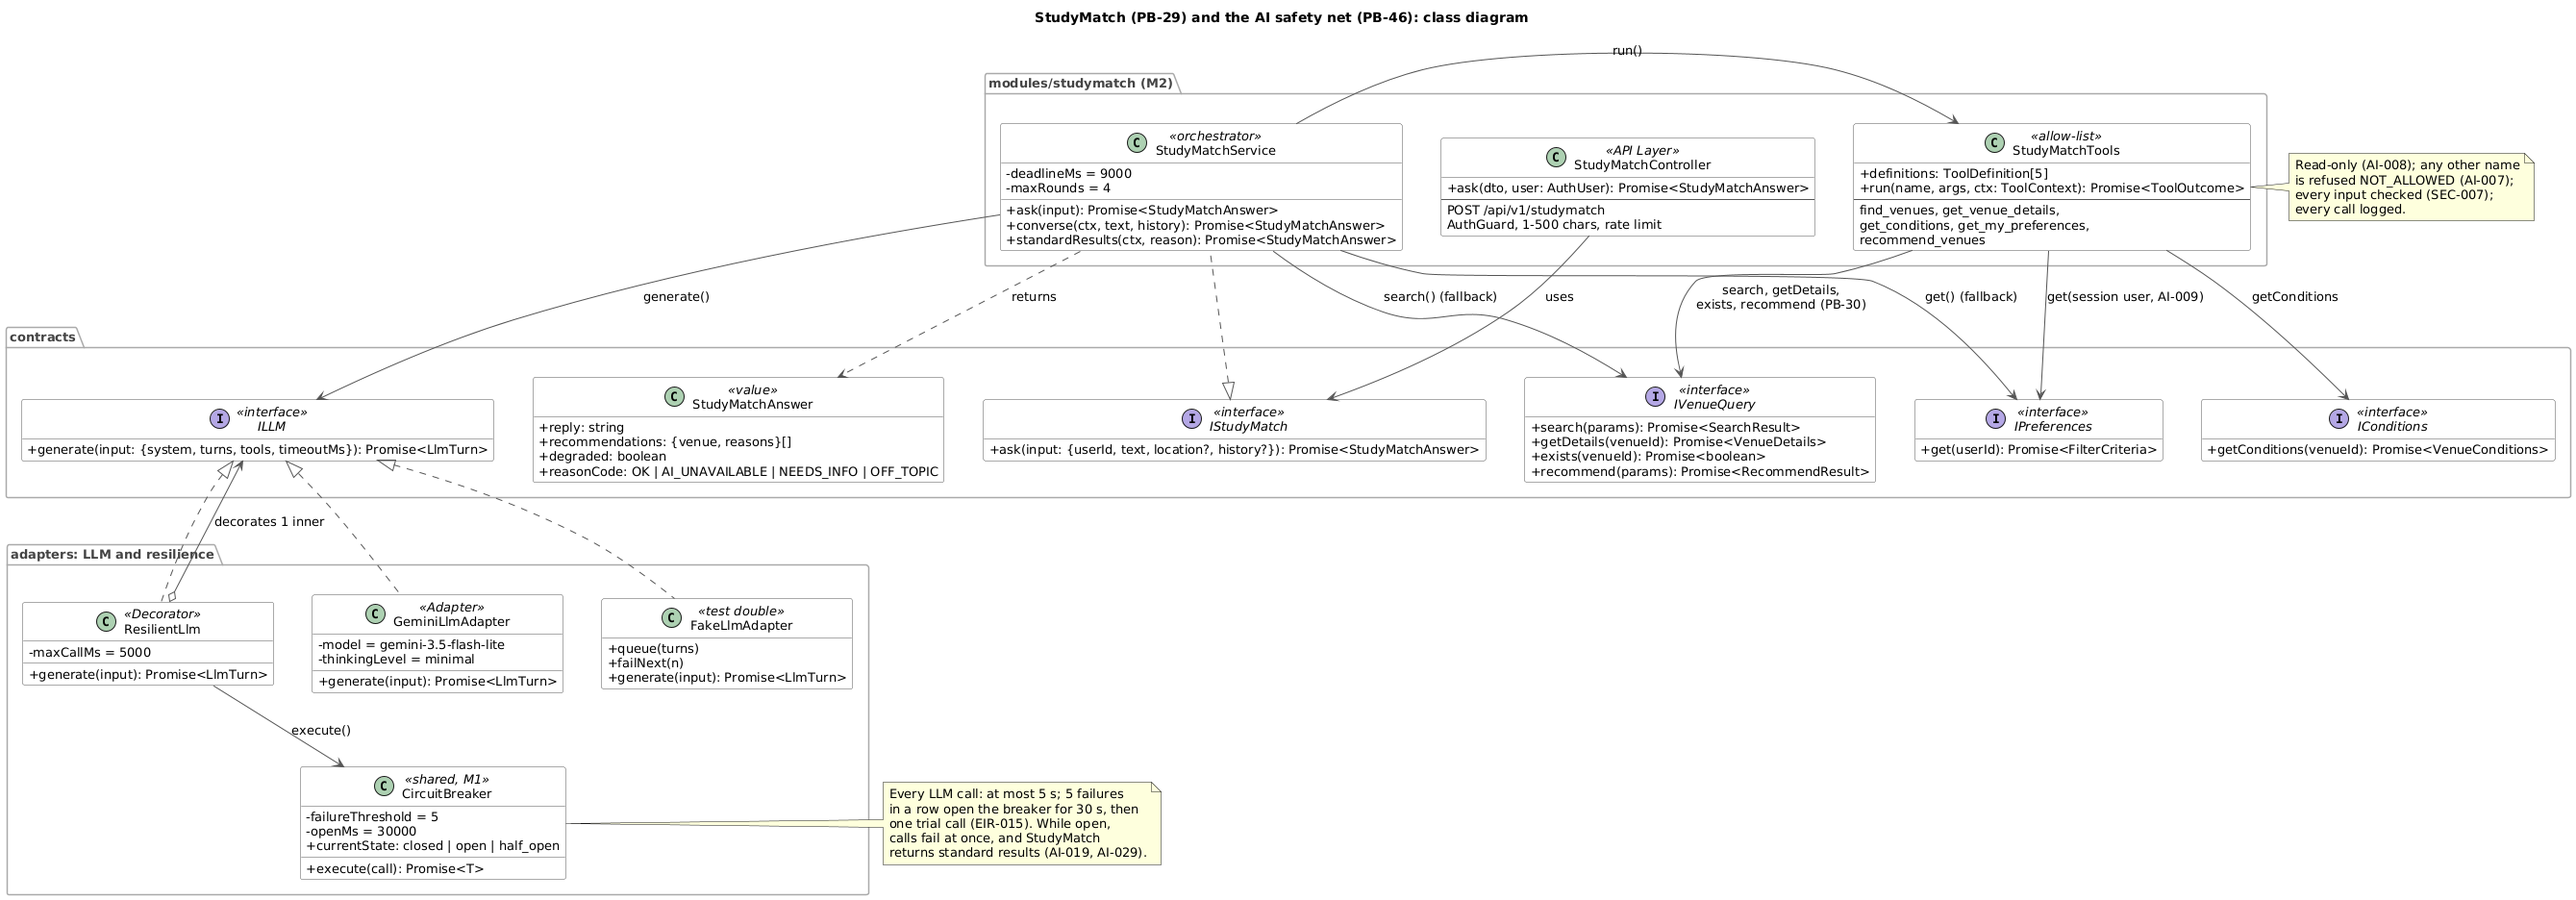
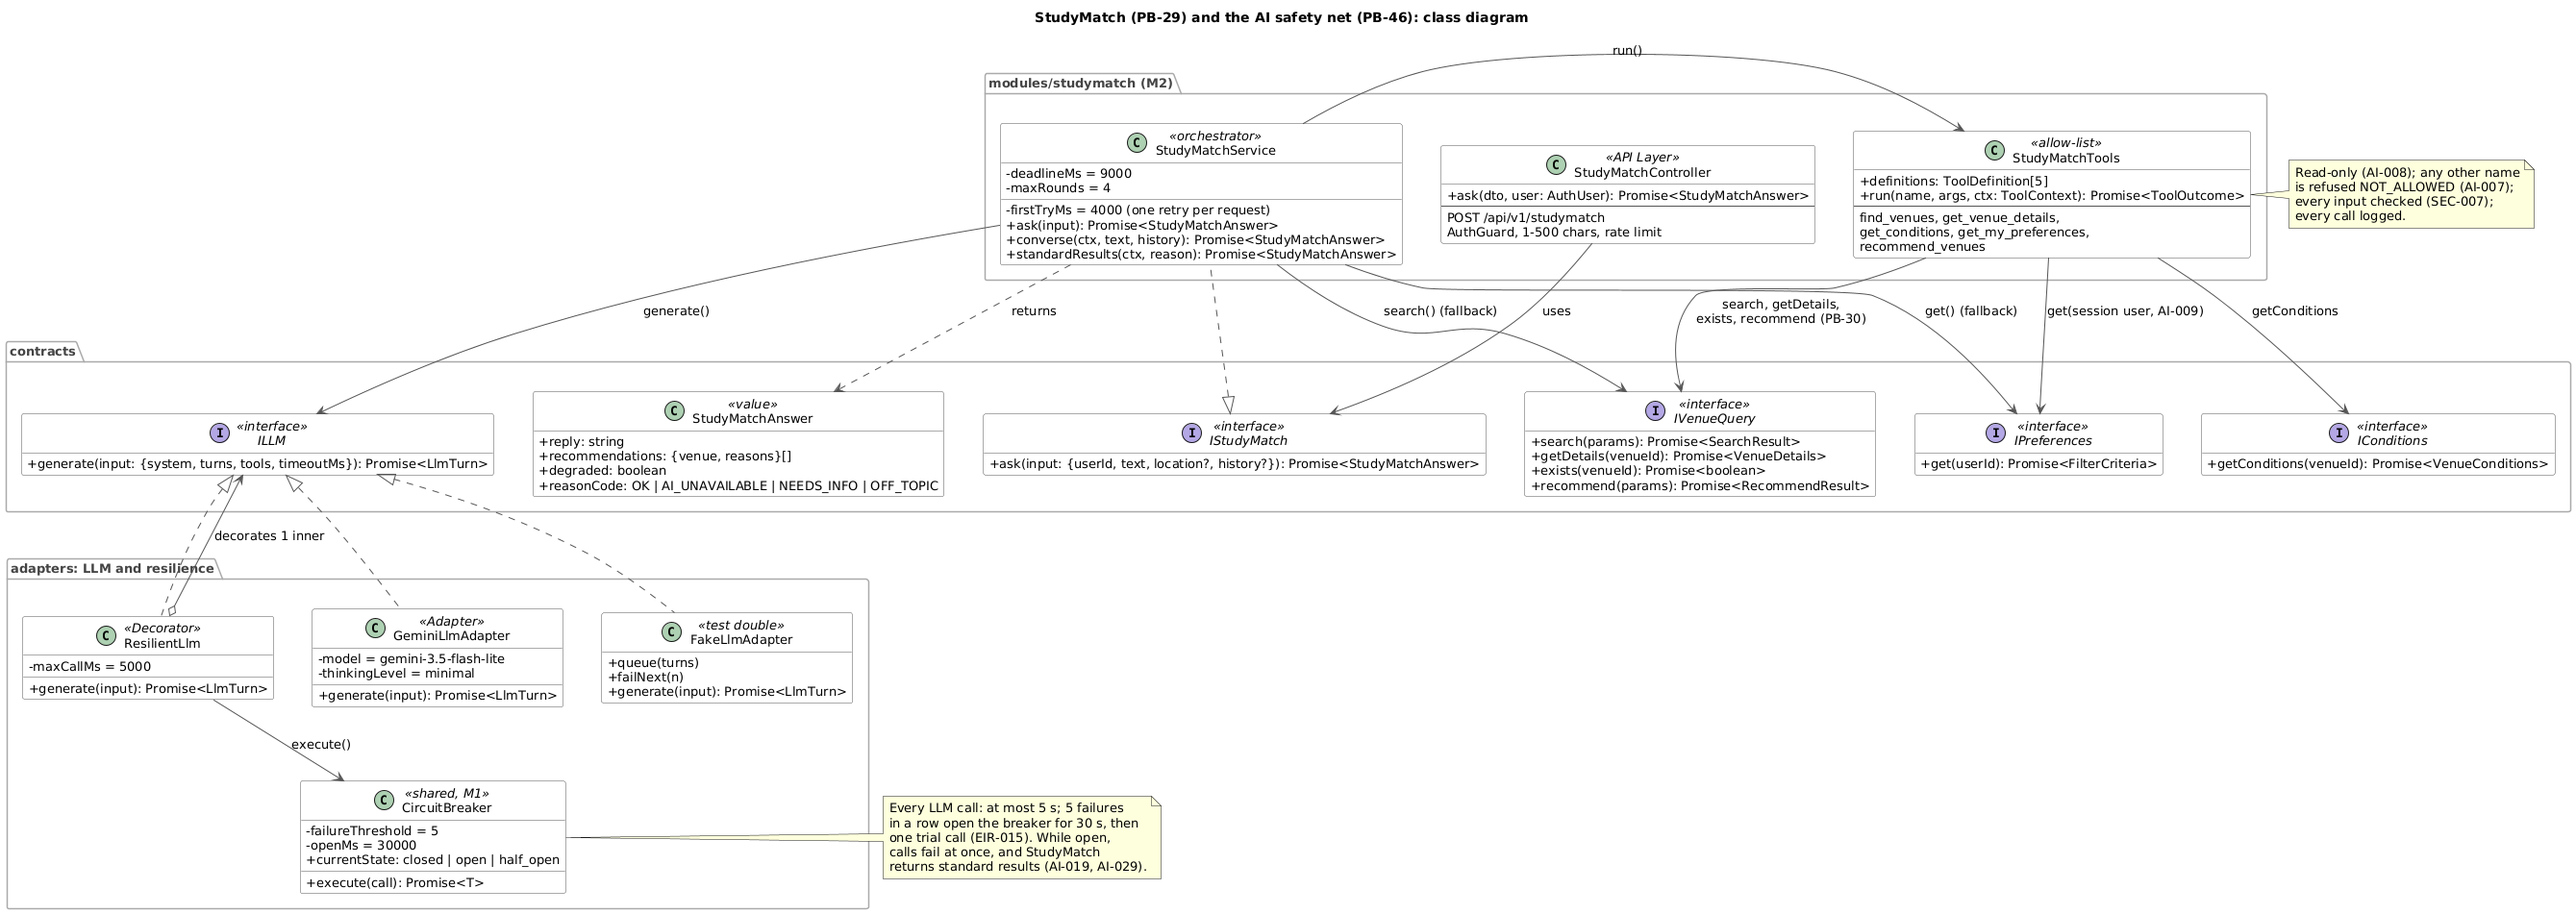
PB-46 StudyMatch retries one slow AI call per request, within the 9 s deadline
- First try of a call 4 s (answers normally take 1-2 s), then one retry of at most 5 s
- Not retried: open circuit, quota (429), refused request; the breaker is unchanged
- TC-M2-73..75; TC-M2-46 and the diagrams updated. Found in the PB-43 usability sessions

diff --git a/backend/test/unit/studymatch.service.spec.ts b/backend/test/unit/studymatch.service.spec.ts
@@ -1,3 +1,4 @@
+import { LlmBadRequestError } from '../../src/adapters/llm/gemini-llm.adapter';
 import { AdapterUnavailableError } from '../../src/common/errors/app-error';
 import type { ILLM, IPreferences, IVenueQuery, LlmTurn, VenueSummary } from '../../src/contracts';
 import { FakeClock } from '../../src/modules/clock/fake-clock';
@@ -12,7 +13,7 @@ import {
 } from '../../src/modules/studymatch/studymatch.service';
 
 /**
- * TC-M2-41..TC-M2-46, TC-M2-63..TC-M2-65: the StudyMatch orchestrator (PB-29, SDS 7.2, UC-05).
+ * TC-M2-41..TC-M2-46, TC-M2-63..TC-M2-65, TC-M2-73..TC-M2-75: the StudyMatch orchestrator (PB-29, SDS 7.2, UC-05).
  * The LLM is scripted; tools are faked; time comes from FakeClock.
  */
 const VENUE = { id: 'v1', name: 'Quiet Corner Zamalek' } as VenueSummary;
@@ -155,7 +156,7 @@ describe('StudyMatch orchestrator (PB-29, UC-05)', () => {
     });
   });
 
-  it('TC-M2-46 limits: at most 4 tool rounds; 9 s deadline; each call gets what is left (at most 5 s)', async () => {
+  it('TC-M2-46 limits: at most 4 tool rounds; 9 s deadline; each call gets what is left (at most 4 s)', async () => {
     const loop = setup(Array.from({ length: 10 }, () => call('find_venues')));
     await expect(loop.service.converse(ME, 'loop forever')).rejects.toBeInstanceOf(
       StudyMatchUnavailable,
@@ -170,7 +171,7 @@ describe('StudyMatch orchestrator (PB-29, UC-05)', () => {
     };
     const timed = setup([fourSeconds, fourSeconds, say('just in time')], clock);
     const result = await timed.service.ask({ ...ME, text: 'quiet' });
-    expect(timed.llmCalls.map((c) => c.timeoutMs)).toEqual([5000, 5000, 1000]);
+    expect(timed.llmCalls.map((c) => c.timeoutMs)).toEqual([4000, 4000, 1000]);
     expect(result.reply).toBe('just in time');
 
     // With 8.6 s gone there is no time for another call: unavailable (step 6 falls back).
@@ -189,6 +190,90 @@ describe('StudyMatch orchestrator (PB-29, UC-05)', () => {
       reason: 'deadline',
     });
     expect(late.llmCalls).toHaveLength(1);
+  });
+
+  const failAfter =
+    (clock: FakeClock, seconds: number, reason = 'timeout'): Step =>
+    () => {
+      clock.advance({ seconds });
+      throw new AdapterUnavailableError('llm', reason);
+    };
+
+  it('TC-M2-73 one slow call is tried once more: the student still gets the answer, within the 9 s', async () => {
+    const clock = new FakeClock('2026-11-25T18:00:00Z');
+    const s = setup(
+      [
+        failAfter(clock, 4),
+        call('recommend_venues', { criteria: [] }),
+        say('Quiet Corner Zamalek is quiet right now (current).'),
+      ],
+      clock,
+    );
+    const answer = await s.service.ask({ ...ME, text: 'quiet near me' });
+    expect(answer).toMatchObject({ degraded: false, recommendations: [{ venue: VENUE }] });
+    // First try 4 s; the retry and later calls at most 5 s, never more than what is left.
+    expect(s.llmCalls.map((c) => c.timeoutMs)).toEqual([4000, 5000, 5000]);
+    expect(s.llmCalls[1].turns).toEqual(s.llmCalls[0].turns);
+
+    // A slow second call (after the tools) is retried as well.
+    const later = new FakeClock('2026-11-25T18:00:00Z');
+    const t = setup(
+      [call('recommend_venues', { criteria: [] }), failAfter(later, 4), say('Found one.')],
+      later,
+    );
+    expect(await t.service.ask({ ...ME, text: 'quiet' })).toMatchObject({ reply: 'Found one.' });
+    expect(t.toolCalls).toHaveLength(1);
+  });
+
+  it('TC-M2-74 only one retry per request, and none with under 1 s left: then standard results', async () => {
+    const clock = new FakeClock('2026-11-25T18:00:00Z');
+    const twice = setup([failAfter(clock, 4), failAfter(clock, 4), say('never asked')], clock);
+    expect(await twice.service.ask({ ...ME, text: 'quiet' })).toMatchObject({
+      degraded: true,
+      reasonCode: 'AI_UNAVAILABLE',
+    });
+    expect(twice.llmCalls).toHaveLength(2);
+
+    // The retry is used up by the first call: a slow later call is not retried.
+    const c2 = new FakeClock('2026-11-25T18:00:00Z');
+    const used = setup(
+      [failAfter(c2, 1), call('find_venues'), failAfter(c2, 1), say('never asked')],
+      c2,
+    );
+    expect((await used.service.ask({ ...ME, text: 'quiet' })).degraded).toBe(true);
+    expect(used.llmCalls).toHaveLength(3);
+
+    // Boundary: 1.0 s left is retried, 0.9 s is not.
+    for (const [gone, calls] of [
+      [8.0, 2],
+      [8.1, 1],
+    ]) {
+      const c = new FakeClock('2026-11-25T18:00:00Z');
+      const s = setup([failAfter(c, gone), say('in time')], c);
+      expect((await s.service.ask({ ...ME, text: 'quiet' })).degraded).toBe(calls === 1);
+      expect(s.llmCalls).toHaveLength(calls);
+    }
+  });
+
+  it('TC-M2-75 retried: timeout, network error, HTTP 503; not retried: open circuit, quota (429), refused request', async () => {
+    const attempts = async (error: Error) => {
+      const s = setup([
+        () => {
+          throw error;
+        },
+        say('second try'),
+      ]);
+      const answer = await s.service.ask({ ...ME, text: 'quiet' });
+      expect(answer.degraded).toBe(s.llmCalls.length === 1);
+      return s.llmCalls.length;
+    };
+    for (const reason of ['timeout after 4000 ms', 'network error', 'HTTP 503']) {
+      expect(await attempts(new AdapterUnavailableError('llm', reason))).toBe(2);
+    }
+    for (const reason of ['circuit open', 'HTTP 429']) {
+      expect(await attempts(new AdapterUnavailableError('llm', reason))).toBe(1);
+    }
+    expect(await attempts(new LlmBadRequestError('HTTP 400'))).toBe(1);
   });
 
   it('TC-M2-63 follow-up: the earlier messages reach the AI, oldest first, before the new one', async () => {

diff --git a/backend/src/modules/studymatch/studymatch.service.ts b/backend/src/modules/studymatch/studymatch.service.ts
@@ -22,6 +22,13 @@ import { StudyMatchTools, type RecommendedVenue, type ToolContext } from './stud
 /** SDS 7.2: 5 s per LLM call (ResilientLlm) inside a 9 s deadline for the whole request (AI-028). */
 export const STUDYMATCH_DEADLINE_MS = 9_000;
 export const LLM_CALL_LIMIT_MS = 5_000;
+/**
+ * Found in the PB-43 sessions: one hanging Gemini call meant "unavailable". The first try of a
+ * call now gets 4 s (answers normally take 1-2 s), which leaves time for one retry per request.
+ */
+export const LLM_FIRST_TRY_MS = 4_000;
+/** Below this a retry would hardly ever be answered in time. */
+const MIN_RETRY_MS = 1_000;
 /** Tool rounds before we stop asking; a normal request needs one or two. */
 export const MAX_ROUNDS = 4;
 export const MAX_TOOL_CALLS_PER_ROUND = 5;
@@ -197,18 +204,28 @@ export class StudyMatchService implements IStudyMatch {
       { role: 'user', text },
     ];
     let recommended: RecommendedVenue[] = [];
+    let retried = false;
 
     for (let round = 0; round < MAX_ROUNDS; round++) {
-      const left = deadline - this.clock.now().getTime();
-      if (left < MIN_CALL_MS) throw new StudyMatchUnavailable('deadline');
-      let answer: LlmTurn;
-      try {
-        answer = await this.llm.generate({
+      const timeLeft = () => deadline - this.clock.now().getTime();
+      if (timeLeft() < MIN_CALL_MS) throw new StudyMatchUnavailable('deadline');
+      const generate = (limitMs: number) =>
+        this.llm.generate({
           system,
           turns,
           tools: this.tools.definitions,
-          timeoutMs: Math.min(LLM_CALL_LIMIT_MS, left),
+          timeoutMs: Math.min(limitMs, timeLeft()),
         });
+      let answer: LlmTurn;
+      try {
+        answer = await generate(retried ? LLM_CALL_LIMIT_MS : LLM_FIRST_TRY_MS).catch(
+          (err: unknown) => {
+            if (retried || !isWorthRetrying(err) || timeLeft() < MIN_RETRY_MS) throw err;
+            retried = true;
+            this.logger.warn({ userId: ctx.userId, reason: err.reason }, 'StudyMatch retries once');
+            return generate(LLM_CALL_LIMIT_MS);
+          },
+        );
       } catch (err) {
         const reason = err instanceof AdapterUnavailableError ? err.reason : String(err);
         throw new StudyMatchUnavailable(reason);
@@ -256,6 +273,14 @@ export class StudyMatchService implements IStudyMatch {
     }
     throw new StudyMatchUnavailable('too many tool rounds');
   }
+}
+
+/**
+ * A slow call, a network error or a Gemini outage may pass. An open circuit, the quota (429) and
+ * requests Gemini refuses do not get better by asking again at once.
+ */
+function isWorthRetrying(err: unknown): err is AdapterUnavailableError {
+  return err instanceof AdapterUnavailableError && !/^(circuit open|HTTP 4\d\d)/.test(err.reason);
 }
 
 /** Standard results carry only a fact from the data, never a claimed match (AI-014). */

diff --git a/docs/testing/traceability-matrix.md b/docs/testing/traceability-matrix.md
@@ -4,12 +4,12 @@
 
 ## Summary
 
-**318** test cases: **314** pass, **1** fail, **3** not run yet. They cover **159** requirement IDs.
+**321** test cases: **317** pass, **1** fail, **3** not run yet. They cover **159** requirement IDs.
 
 | Member | Test cases | Pass | Fail | Not run | Automated |
 | --- | ---: | ---: | ---: | ---: | ---: |
 | M1 | 93 | 91 | 1 | 1 | 93 |
-| M2 | 69 | 69 | 0 | 0 | 69 |
+| M2 | 72 | 72 | 0 | 0 | 72 |
 | M3 | 40 | 40 | 0 | 0 | 40 |
 | M4 | 33 | 33 | 0 | 0 | 33 |
 | M5 | 15 | 15 | 0 | 0 | 15 |
@@ -22,7 +22,7 @@
 | Integration | 100 |
 | Performance | 3 |
 | System | 2 |
-| Unit | 182 |
+| Unit | 185 |
 | Unit (app) | 9 |
 | Widget | 12 |
 
@@ -50,8 +50,8 @@
 | AI-023 | TC-M1-77, TC-M1-78, TC-M1-82 | Unit, Integration | ✅ all pass |
 | AI-024 | TC-M2-44 | Unit | ✅ all pass |
 | AI-026 | TC-M1-79, TC-M1-84, TC-M1-89 | Unit, Integration, Unit (app) | ✅ all pass |
-| AI-028 | TC-M2-33, TC-M2-46 | Unit | ✅ all pass |
-| AI-029 | TC-M2-28, TC-M2-30, TC-M2-47, TC-M2-49, TC-M2-50, TC-M2-53, TC-M2-59 | Unit, Integration, Widget | ✅ all pass |
+| AI-028 | TC-M2-33, TC-M2-46, TC-M2-73, TC-M2-74 | Unit | ✅ all pass |
+| AI-029 | TC-M2-28, TC-M2-30, TC-M2-47, TC-M2-49, TC-M2-50, TC-M2-53, TC-M2-59, TC-M2-73, TC-M2-74, TC-M2-75 | Unit, Integration, Widget | ✅ all pass |
 | CON-001 | TC-M4-40, TC-M4-41, TC-M4-42 | Integration, Unit (app), Widget | ✅ all pass |
 | CON-002 | TC-M4-40, TC-M4-41, TC-M4-42 | Integration, Unit (app), Widget | ✅ all pass |
 | CON-003 | TC-M4-40, TC-M4-41, TC-M4-42 | Integration, Unit (app), Widget | ✅ all pass |
@@ -76,7 +76,7 @@
 | EIR-010 | TC-M1-28, TC-M2-35, TC-M2-37, TC-M2-38, TC-M2-39, TC-M2-40, TC-M2-54 | Integration, Unit | ✅ all pass |
 | EIR-011 | TC-M1-01, TC-M1-03, TC-M1-12, TC-M1-34, TC-M1-37, TC-M1-38, TC-M1-39, TC-M1-40, TC-M1-41, TC-M3-35, TC-M2-40, TC-M6-08, TC-M6-09, TC-M6-42 | Unit, API layer, Integration | ✅ all pass |
 | EIR-013 | TC-M6-16, TC-M6-29, TC-M6-30, TC-M6-36, TC-M6-37 | Unit, Integration | ✅ all pass |
-| EIR-015 | TC-M2-26, TC-M2-28, TC-M2-29, TC-M2-30, TC-M2-31, TC-M2-32, TC-M2-33, TC-M2-34, TC-M2-48, TC-M1-76, TC-M1-84 | Unit, Integration | ✅ all pass |
+| EIR-015 | TC-M2-26, TC-M2-28, TC-M2-29, TC-M2-30, TC-M2-31, TC-M2-32, TC-M2-33, TC-M2-34, TC-M2-48, TC-M2-75, TC-M1-76, TC-M1-84 | Unit, Integration | ✅ all pass |
 | FR-001 | TC-M2-01, TC-M2-03, TC-M2-04, TC-M5-02, TC-M5-03, TC-M5-04, TC-M5-05, TC-M5-06 | Unit | ✅ all pass |
 | FR-002 | TC-M2-06, TC-M2-07, TC-M5-07 | Unit, Integration | ✅ all pass |
 | FR-003 | TC-M2-12, TC-M5-08 | Unit | ✅ all pass |
@@ -116,7 +116,7 @@
 | FR-044 | TC-M4-20, TC-M4-24, TC-M4-25, TC-M4-26, TC-M1-59, TC-M1-66, TC-M1-72 | Integration, Unit | ✅ all pass |
 | PERF-001 | TC-M1-90 | Performance | ✅ all pass |
 | PERF-002 | TC-M1-91 | Performance | ✅ all pass |
-| PERF-003 | TC-M2-46, TC-M2-53 | Unit, Integration | ✅ all pass |
+| PERF-003 | TC-M2-46, TC-M2-53, TC-M2-73 | Unit, Integration | ✅ all pass |
 | PERF-005 | TC-M4-34, TC-M4-40, TC-M4-43, TC-M4-12 | Unit, Integration | ✅ all pass |
 | PERF-006 | TC-M1-92 | Performance | ❌ 1 failing |
 | PERF-007 | TC-M2-55 | Unit | ✅ all pass |
@@ -361,6 +361,9 @@
 | TC-M2-70 | SEN-002, USE-007 | Error guessing | Unit | pass | `app/test/core/location_service_test.dart` |
 | TC-M2-71 | PRIV-004, SEN-002 | State transition | Unit | pass | `app/test/features/permissions/location_view_model_test.dart` |
 | TC-M2-72 | AI-003 | Equivalence partitioning | Unit | pass | `app/test/features/studymatch/studymatch_test.dart` |
+| TC-M2-73 | AI-028, AI-029, PERF-003 | Error guessing | Unit | pass | `backend/test/unit/studymatch.service.spec.ts` |
+| TC-M2-74 | AI-028, AI-029 | Boundary value analysis | Unit | pass | `backend/test/unit/studymatch.service.spec.ts` |
+| TC-M2-75 | AI-029, EIR-015 | Equivalence partitioning | Unit | pass | `backend/test/unit/studymatch.service.spec.ts` |
 | TC-M4-01 | RT-001 | Boundary value analysis (59 / 61 min) | Unit | pass | `backend/test/unit/condition-resolver.spec.ts` |
 | TC-M4-02 | RT-016 | Boundary value analysis (23 h 59 / 24 h 1) | Unit | pass | `backend/test/unit/condition-resolver.spec.ts` |
 | TC-M4-03 | RT-001 | Boundary value analysis (5 h 59 / 6 h 1) | Unit | pass | `backend/test/unit/condition-resolver.spec.ts` |
